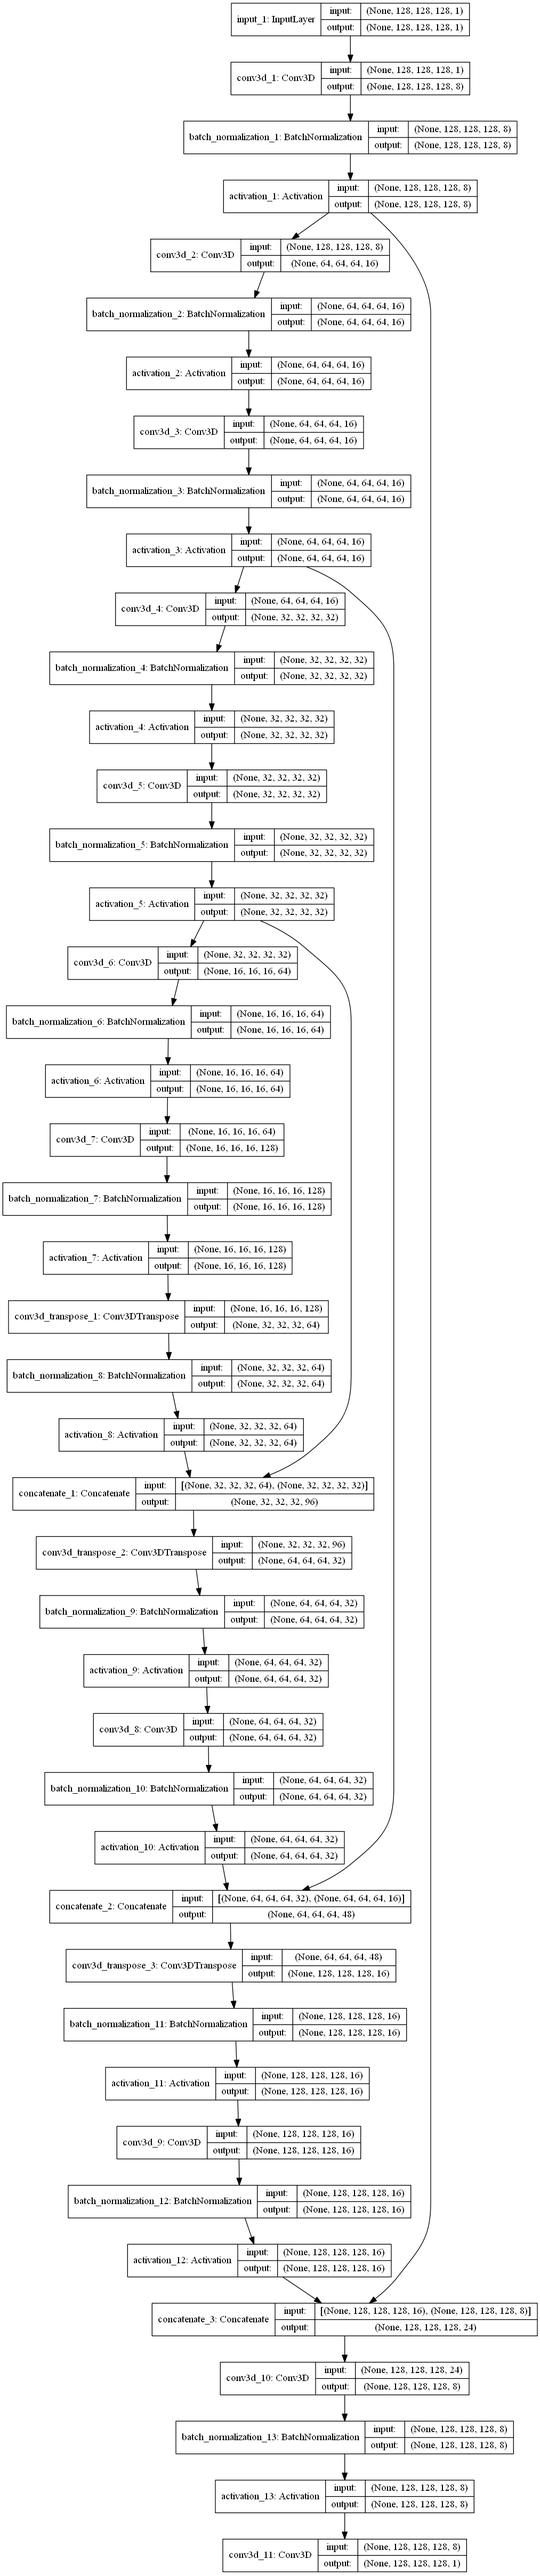
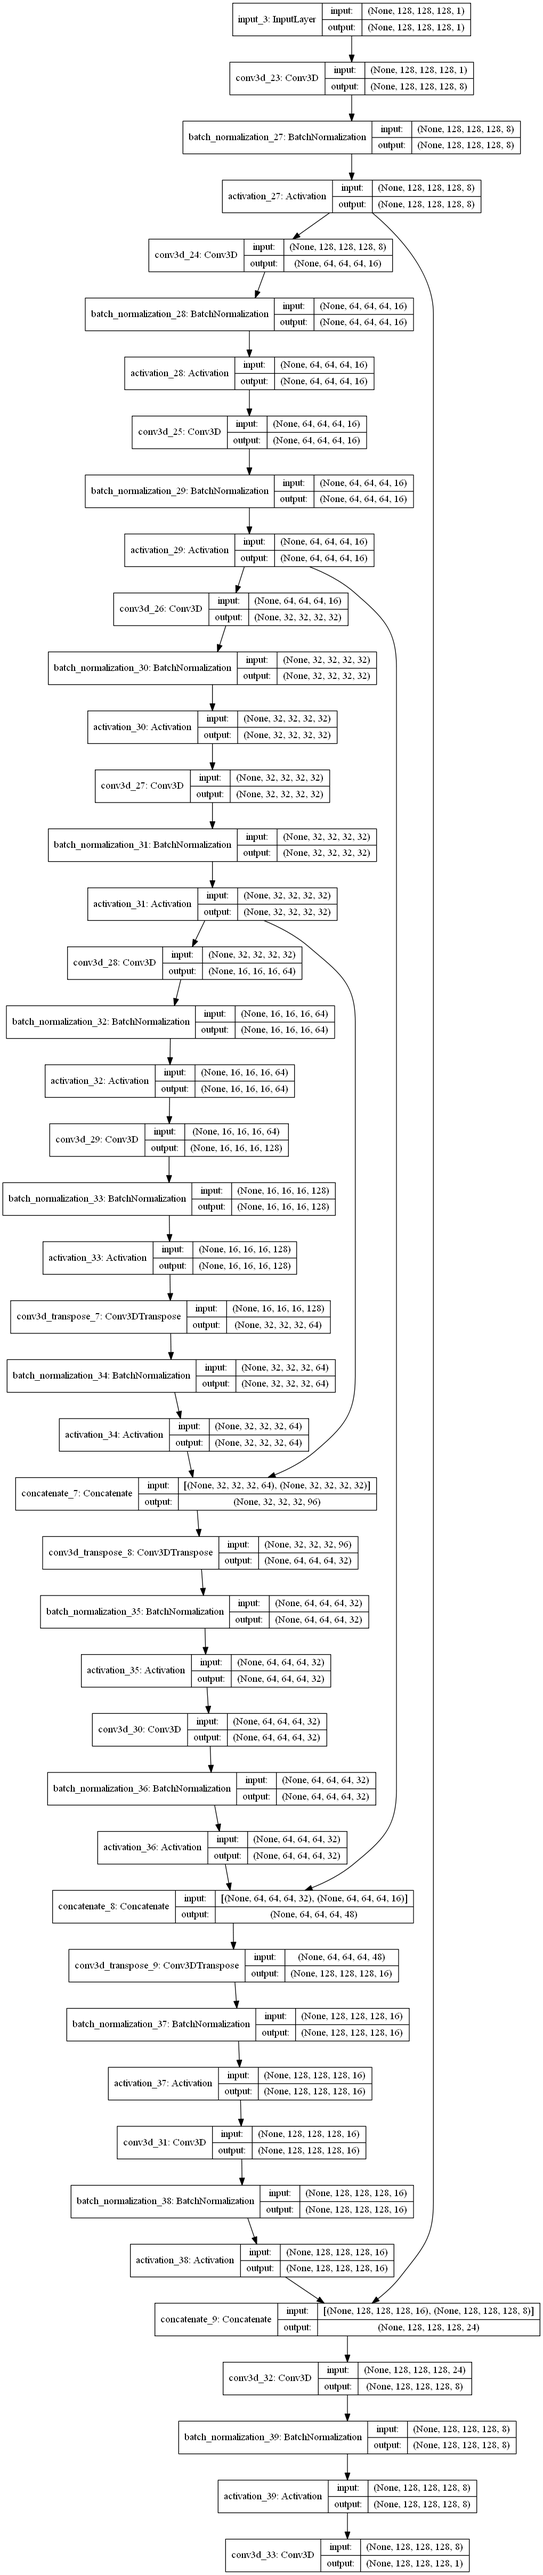
Last stable test

diff --git a/Train_Seg.py b/Train_Seg.py
@@ -8,24 +8,19 @@ Created on Thu Jun  7 15:33:57 2018
 # In the name of GOD
 
 import tensorflow as tf
-K = tf.keras.backend
-num_cores = 4
-GPU = True
-if GPU:
-    num_GPU = 1
-    num_CPU = 1
-else:
-    num_CPU = 1
-    num_GPU = 0
-config = tf.ConfigProto(intra_op_parallelism_threads=num_cores,\
-        inter_op_parallelism_threads=num_cores, allow_soft_placement=True,\
-        device_count = {'CPU' : num_CPU, 'GPU' : num_GPU})
-session = tf.Session(config=config)
-K.set_session(session)
-
 import os, glob
+K = tf.keras.backend
 
-hybridModel = False
+## GPU Memory Management
+#config = tf.ConfigProto()
+#config.gpu_options.allow_growth = True
+##config.gpu_options.allocator_type = 'BFC'
+#config.gpu_options.per_process_gpu_memory_fraction = 0.9
+#sess = tf.Session(config=config)
+#K.set_session(sess)
+run_opts = tf.RunOptions(report_tensor_allocations_upon_oom = True)
+
+hybridModel = True
 modelName = 'UNet'
 #modelName = 'DilatedNet'
 #modelName = 'DilatedNet2'
@@ -60,16 +55,16 @@ def maskImages(images, masks):
 from Utils.load_dataset import prepare_dataset, load_list
  
 datasetDir = './Dataset/'
-dTrain, mTrain, dValid, mValid = prepare_dataset(datasetDir, logPath=resultsDir+currRun, scaleFactor=1)
+#dTrain, mTrain, dValid, mValid = prepare_dataset(datasetDir, logPath=resultsDir+currRun, scaleFactor=1)
 
-#train_images = './reports/train_list_images.txt' 
-#train_masks = './reports/train_list_masks.txt'
-#valid_images = './reports/valid_list_images.txt' 
-#valid_masks = './reports/valid_list_masks.txt'
-#dTrain, _ = load_list(train_images, logPath=resultsDir+currRun)
-#mTrain, _ = load_list(train_masks, logPath=resultsDir+currRun)
-#dValid, _ = load_list(valid_images, logPath=resultsDir+currRun)
-#mValid, _ = load_list(valid_masks, logPath=resultsDir+currRun)
+train_images = './imageLists/train_list_images.txt' 
+train_masks = './imageLists/train_list_masks.txt'
+valid_images = './imageLists/valid_list_images.txt' 
+valid_masks = './imageLists/valid_list_masks.txt'
+dTrain, _ = load_list(train_images, logPath=resultsDir+currRun)
+mTrain, _ = load_list(train_masks, logPath=resultsDir+currRun)
+dValid, _ = load_list(valid_images, logPath=resultsDir+currRun)
+mValid, _ = load_list(valid_masks, logPath=resultsDir+currRun)
 
 if mask_image:
     mTrain_masked = maskImages(dTrain, mTrain)
@@ -77,23 +72,13 @@ if mask_image:
     
 ##-------Visualize Dataset-------#
 #from Utils.utils import visualizeDataset
-#visualizeDataset(dTrain, plotSize=[10,11])
-#visualizeDataset(mTrain, plotSize=[10,11])
+#visualizeDataset(dValid, plotSize=[6,5])
+#visualizeDataset(mValid, plotSize=[6,5])
 
 '''------------------------------ Build Model ------------------------------'''
 
 from Utils.utils import myPrint, myLog
 import datetime
-K = tf.keras.backend
-
-# GPU Memory Management
-config = tf.ConfigProto()
-config.gpu_options.allow_growth = True
-#config.gpu_options.allocator_type = 'BFC'
-config.gpu_options.per_process_gpu_memory_fraction = 0.9
-sess = tf.Session(config=config)
-K.set_session(sess)
-run_opts = tf.RunOptions(report_tensor_allocations_upon_oom = True)
 
 def dice_coef(y_true, y_pred, smooth=1.):
     y_true_f = K.flatten(y_true)
@@ -118,7 +103,9 @@ def summary(model, modelType): # Compute number of params in a model (the actual
     myPrint('...Trainable params:  {:,}'.format(trainParams), path=resultsDir+currRun)
 
 #img_size = dTrain.shape[1:]
-img_size = (None, None, None, 1)
+#img_size = (None, None, None, 1)
+img_size = (128, 128, 128, 1)
+
 batch_size = 3
 myPrint('...Input image size: {}'.format(img_size), path=resultsDir+currRun)
 myPrint('...Batch size: {}'.format(batch_size), path=resultsDir+currRun)
@@ -144,10 +131,10 @@ elif modelName == 'DilatedNet2':
 if not hybridModel:
     model = segModel
     model.compile(optimizer=tf.keras.optimizers.Adam(lr=lr),
-                   loss=myLoss, metrics=[dice_coef],
+                   loss=dice_coef_loss, metrics=[dice_coef],
                    options=run_opts)
-#    myPrint('...Loss: Dice', path=resultsDir+currRun)
-    myPrint('...Loss: {}*Dice + {}*BCE'.format(0.8, 1-0.8), path=resultsDir+currRun)
+    myPrint('...Loss: Dice', path=resultsDir+currRun)
+#    myPrint('...Loss: {}*Dice + {}*BCE'.format(0.8, 1-0.8), path=resultsDir+currRun)
     
 elif hybridModel:      
     latent_dim = 64
@@ -164,7 +151,7 @@ elif hybridModel:
         
     encoder.load_weights(dsmWeightsPath)
     encoder.trainable = False
-    alpha = 0.2
+    alpha = 0.8
     inLayer = tf.keras.layers.Input(shape=img_size)
     if mask_image:
         outSeg = tf.keras.layers.dot([inLayer, segModel(inLayer)], axes=-1, normalize=True)
@@ -174,7 +161,7 @@ elif hybridModel:
     model.compile(optimizer=tf.keras.optimizers.Adam(lr=lr),
                    loss=[dice_coef_loss, tf.keras.losses.binary_crossentropy],
                    loss_weights = [alpha, 1-alpha],
-                   metrics=['accuracy'], options=run_opts)
+                   metrics=[dice_coef], options=run_opts)
 #    model = tf.keras.Model(inLayer, encoder(segModel(inLayer)))
 #    model.compile(optimizer=tf.keras.optimizers.Adam(lr=lr),
 #                   loss=tf.keras.losses.binary_crossentropy,
@@ -221,7 +208,8 @@ model_checkpoint_t = tf.keras.callbacks.ModelCheckpoint(model_file_t,
 logger = tf.keras.callbacks.CSVLogger(resultsDir+currRun+'/reports/training.log', separator='\t')
 tensorBoard = tf.keras.callbacks.TensorBoard(log_dir='./tensorboard/'+modelName+currRun)
 lrs = tf.keras.callbacks.LearningRateScheduler(lambda epoch: lr / (1. + decay * epoch))
-callbacks = [tensorBoard, model_checkpoint_v, model_checkpoint_t, logger, MyCallback(), lrs]
+ReduceLROnPlateau = tf.keras.callbacks.ReduceLROnPlateau()
+callbacks = [tensorBoard, model_checkpoint_v, model_checkpoint_t, logger, MyCallback(), lrs, ReduceLROnPlateau]
 
 '''-------------------------------Train Model-------------------------------'''
 
@@ -230,7 +218,7 @@ start = datetime.datetime.now()
 myPrint('...Start: {}'.format(start.ctime()[:-5]), path=resultsDir+currRun)
 myLog('epoch\tlr\tloss\tval_loss', path=resultsDir+currRun)
 
-epochs = 500
+epochs = 210
 
 if not hybridModel:
     model.fit(dTrain, mTrain, shuffle=True, epochs=epochs, batch_size=batch_size,

diff --git a/Predict_Seg.py b/Predict_Seg.py
@@ -22,9 +22,9 @@ K.set_session(sess)
 run_opts = tf.RunOptions(report_tensor_allocations_upon_oom = True)
     
 
-run = 'run1'
+run = 'run2'
 resultsPath = './Results/' + run
-hybridModel = False
+hybridModel = True
 modelName = 'UNet'
 #modelName = 'DilatedNet'
 dsmType = 'CAE'
@@ -48,17 +48,17 @@ from Utils.load_dataset import prepare_dataset, prepare_test
 from Utils.load_dataset import load_list
 
 listPath = resultsPath + '/reports/valid_list_images.txt' 
-testImages, testFiles = load_list(listPath, savelist=False)
+
 
 #testFiles, ids = getIndicesFromFile(listPath)
-#datasetDir = './Dataset/Dataset_Test_Preprocessed/'
+datasetDir = './Dataset/Dataset_Test_Preprocessed/'
 #images, masks, _, _ = prepare_dataset(datasetDir, split=1., scaleFactor=0.5)
 #testImages = images[ids]
-#img_size = testImages.shape[1:] 
 
-#testImages, testFiles = prepare_test(datasetDir, scaleFactor=0.25)
-  
-img_size = (None, None, None, 1) 
+#testImages, testFiles = load_list(listPath, savelist=False)
+testImages, testFiles = prepare_test(datasetDir, scaleFactor=0.25)
+img_size = testImages.shape[1:] 
+#img_size = (128, 128, 128, 1) 
 
 '''--------------Build Model--------------'''
 if modelName == 'UNet':
@@ -83,11 +83,11 @@ if hybridModel:
 #        model = tf.keras.Model(inLayer, [segModel(inLayer), encoder(outSeg)])
 #    else:
     model = tf.keras.Model(inLayer, [segModel(inLayer), encoder(segModel(inLayer))])
-    weightsPath =resultsPath + '/weights/' + modelName + '_' + dsmType + '_model_v.hdf5'       
+    weightsPath =resultsPath + '/weights/' + modelName + '_' + dsmType + '_model_t.hdf5'       
 
 else:        
     model = segModel
-    weightsPath =resultsPath + '/weights/' + modelName + '_model_v.hdf5'
+    weightsPath =resultsPath + '/weights/' + modelName + '_model_t.hdf5'
 
 model.load_weights(weightsPath)
 
@@ -115,7 +115,7 @@ if (hybridModel == True):
         predicted[predicted <= threshold] = 0
         predicted[predicted > threshold] = 1
         volOut = sitk.GetImageFromArray(predicted)
-        outFile = os.path.join(predDir, testFiles[i][:-7]+'_pred.nii.gz')
+        outFile = os.path.join(predDir, os.path.basename(testFiles[i])[:-7]+'_pred.nii.gz')
         sitk.WriteImage(volOut, outFile)
         print('saved as ' + outFile)
     outFile = os.path.join(predDir, 'latent')
@@ -124,13 +124,14 @@ if (hybridModel == True):
 
 else:
     for i,img in enumerate(testImages):
-        img = img[np.newaxis,:,:,:,np.newaxis]
+        img = img[np.newaxis,:]
         print('... Predicting image {} of {}'.format(i+1, len(testImages)))
-        predicted = np.squeeze(model.predict(img))
+        predicted = np.squeeze(model.predict_on_batch(img))
         predicted = predicted[::-1]
         predicted[predicted <= threshold] = 0
         predicted[predicted > threshold] = 1
         volOut = sitk.GetImageFromArray(predicted)
+    
         outFile = os.path.join(predDir, os.path.basename(testFiles[i])[:-7]+'_pred.nii.gz')
         sitk.WriteImage(volOut, outFile)
         print('saved as ' + outFile)

diff --git a/Utils/load_dataset.py b/Utils/load_dataset.py
@@ -65,13 +65,14 @@ def load_images(images_list, padSize, scaleFactor, isTest = False):
             dImages_zoomed.append(tmp[:,:,:,np.newaxis])
 #            dTrain_zoomed[i,:,:,:] = ndimage.zoom(dTrain[i], scaleFactor, order=0) #Pooling
         dImages = np.asarray(dImages_zoomed)
+    
+    if len(dImages.shape) ==4:    
+        if isTest:
+            for i in range(len(dImages)):
+                dImages[i] = np.array(dImages[i][:,:,:,np.newaxis], dtype='float32')
+        else:
+            dImages = np.array(dImages[:,:,:,:,np.newaxis], dtype='float32')
         
-#    if isTest:
-#        for i in range(len(dImages)):
-#            dImages[i] = np.array(dImages[i][:,:,:,np.newaxis], dtype='float32')
-#    else:
-#        dImages = np.array(dImages[:,:,:,:,np.newaxis], dtype='float32')
-#        
     return dImages
 
 def save_list(images_list, fileName):
@@ -84,7 +85,7 @@ def save_list(images_list, fileName):
             imagesListFile.write(str(i)+"\t{}\n".format(item))
             i+=1
 
-def prepare_dataset(datasetDir, split=0.8, padSize=0, shuffle=True, scaleFactor=None, logPath='.'):
+def prepare_dataset(datasetDir, split=0.9, padSize=0, shuffle=True, scaleFactor=None, logPath='.'):
     """ 
     Function that loads 3D medical image data
     and prepare it for training
@@ -165,7 +166,7 @@ def load_list(imagesListFile, scaleFactor=None, logPath='.', savelist=True):
 #    print('------------<  Dataset Info >------------')
 #    print('...Test images:      {0}'.format(len(dImages)))
     if savelist:
-        save_list(imgFiles, logPath+'/reports/'+imagesListFile)
+        save_list(imgFiles, logPath+'/reports/'+os.path.basename(imagesListFile))
     return dImages, fileNames
 
 def normalize(data):

diff --git a/Models/UNet_3D.py b/Models/UNet_3D.py
@@ -51,12 +51,12 @@ def UNet_3D(img_size, d=2):
     x = ConvBlock(conv3, filters=int(128/d), kernel=(3,3,3), strides=(2,2,2))
     x = ConvBlock(x, filters=int(256/d), kernel=(3,3,3), strides=(1,1,1))
     
-    upconv1 = UpConvBlock(x, filters=int(128/d), kernel=(4,4,4), strides=(2,2,2))
+    upconv1 = UpConvBlock(x, filters=int(128/d), kernel=(3,3,3), strides=(2,2,2))
     x = tf.keras.layers.concatenate([upconv1, conv3], axis=-1)
-    x = UpConvBlock(x, filters=int(64/d), kernel=(4,4,4), strides=(2,2,2))
+    x = UpConvBlock(x, filters=int(64/d), kernel=(3,3,3), strides=(2,2,2))
     upconv2 = ConvBlock(x, filters=int(64/d), kernel=(3,3,3), strides=(1,1,1))
     x = tf.keras.layers.concatenate([upconv2, conv2], axis=-1)
-    x = UpConvBlock(x, filters=int(32/d), kernel=(4,4,4), strides=(2,2,2))
+    x = UpConvBlock(x, filters=int(32/d), kernel=(3,3,3), strides=(2,2,2))
     upconv3 = ConvBlock(x, filters=int(32/d), kernel=(3,3,3), strides=(1,1,1))
     x = tf.keras.layers.concatenate([upconv3, conv1], axis=-1)
     x = ConvBlock(x, filters=int(16/d), kernel=(3,3,3), strides=(1,1,1))

diff --git a/Utils/utils.py b/Utils/utils.py
@@ -14,8 +14,11 @@ def visualizeDataset(dataset, plotSize=[4,4]):
     plt.figure()
     for num in range(len(dataset)):
         plt.subplot(plotSize[0],plotSize[1],num+1)
-        centerSlice = int(dataset.shape[1]/2)
-        plt.imshow(dataset[num, :, centerSlice, :, 0], cmap='gray')
+        centerSlice = int(dataset.shape[2]/2)
+        if len(dataset.shape) == 5:
+            plt.imshow(dataset[num, :, centerSlice, :, 0], cmap='gray')
+        else:
+            plt.imshow(dataset[num, :, centerSlice, :], cmap='gray')
         plt.axis('off')
     plt.suptitle('Center Coronal Slice\nfrom each training image')
     
